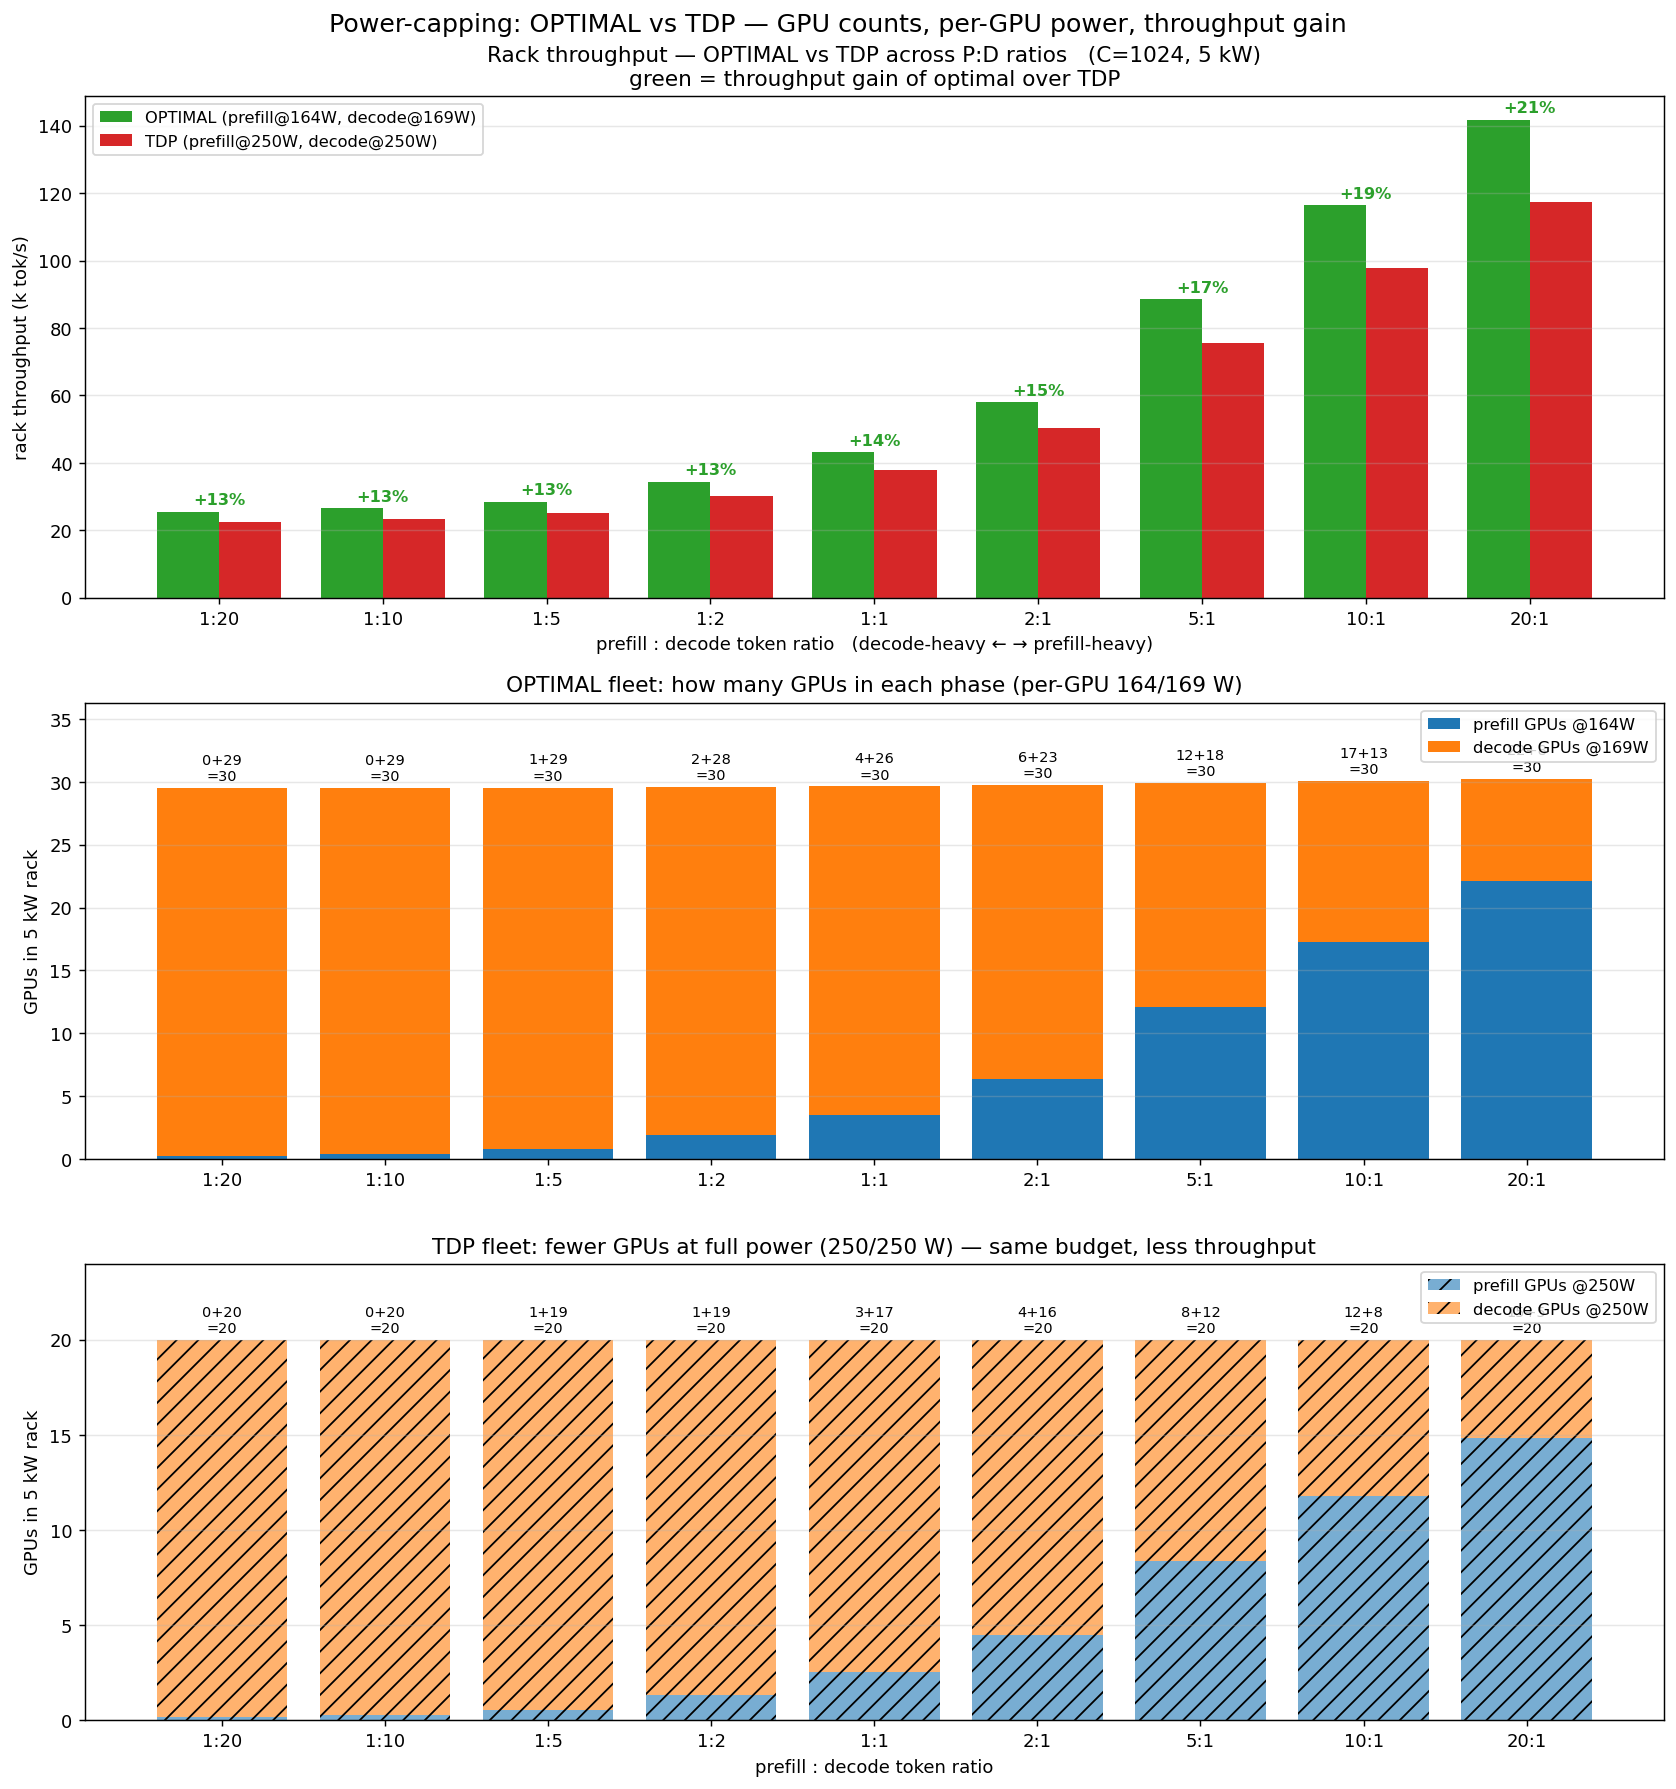
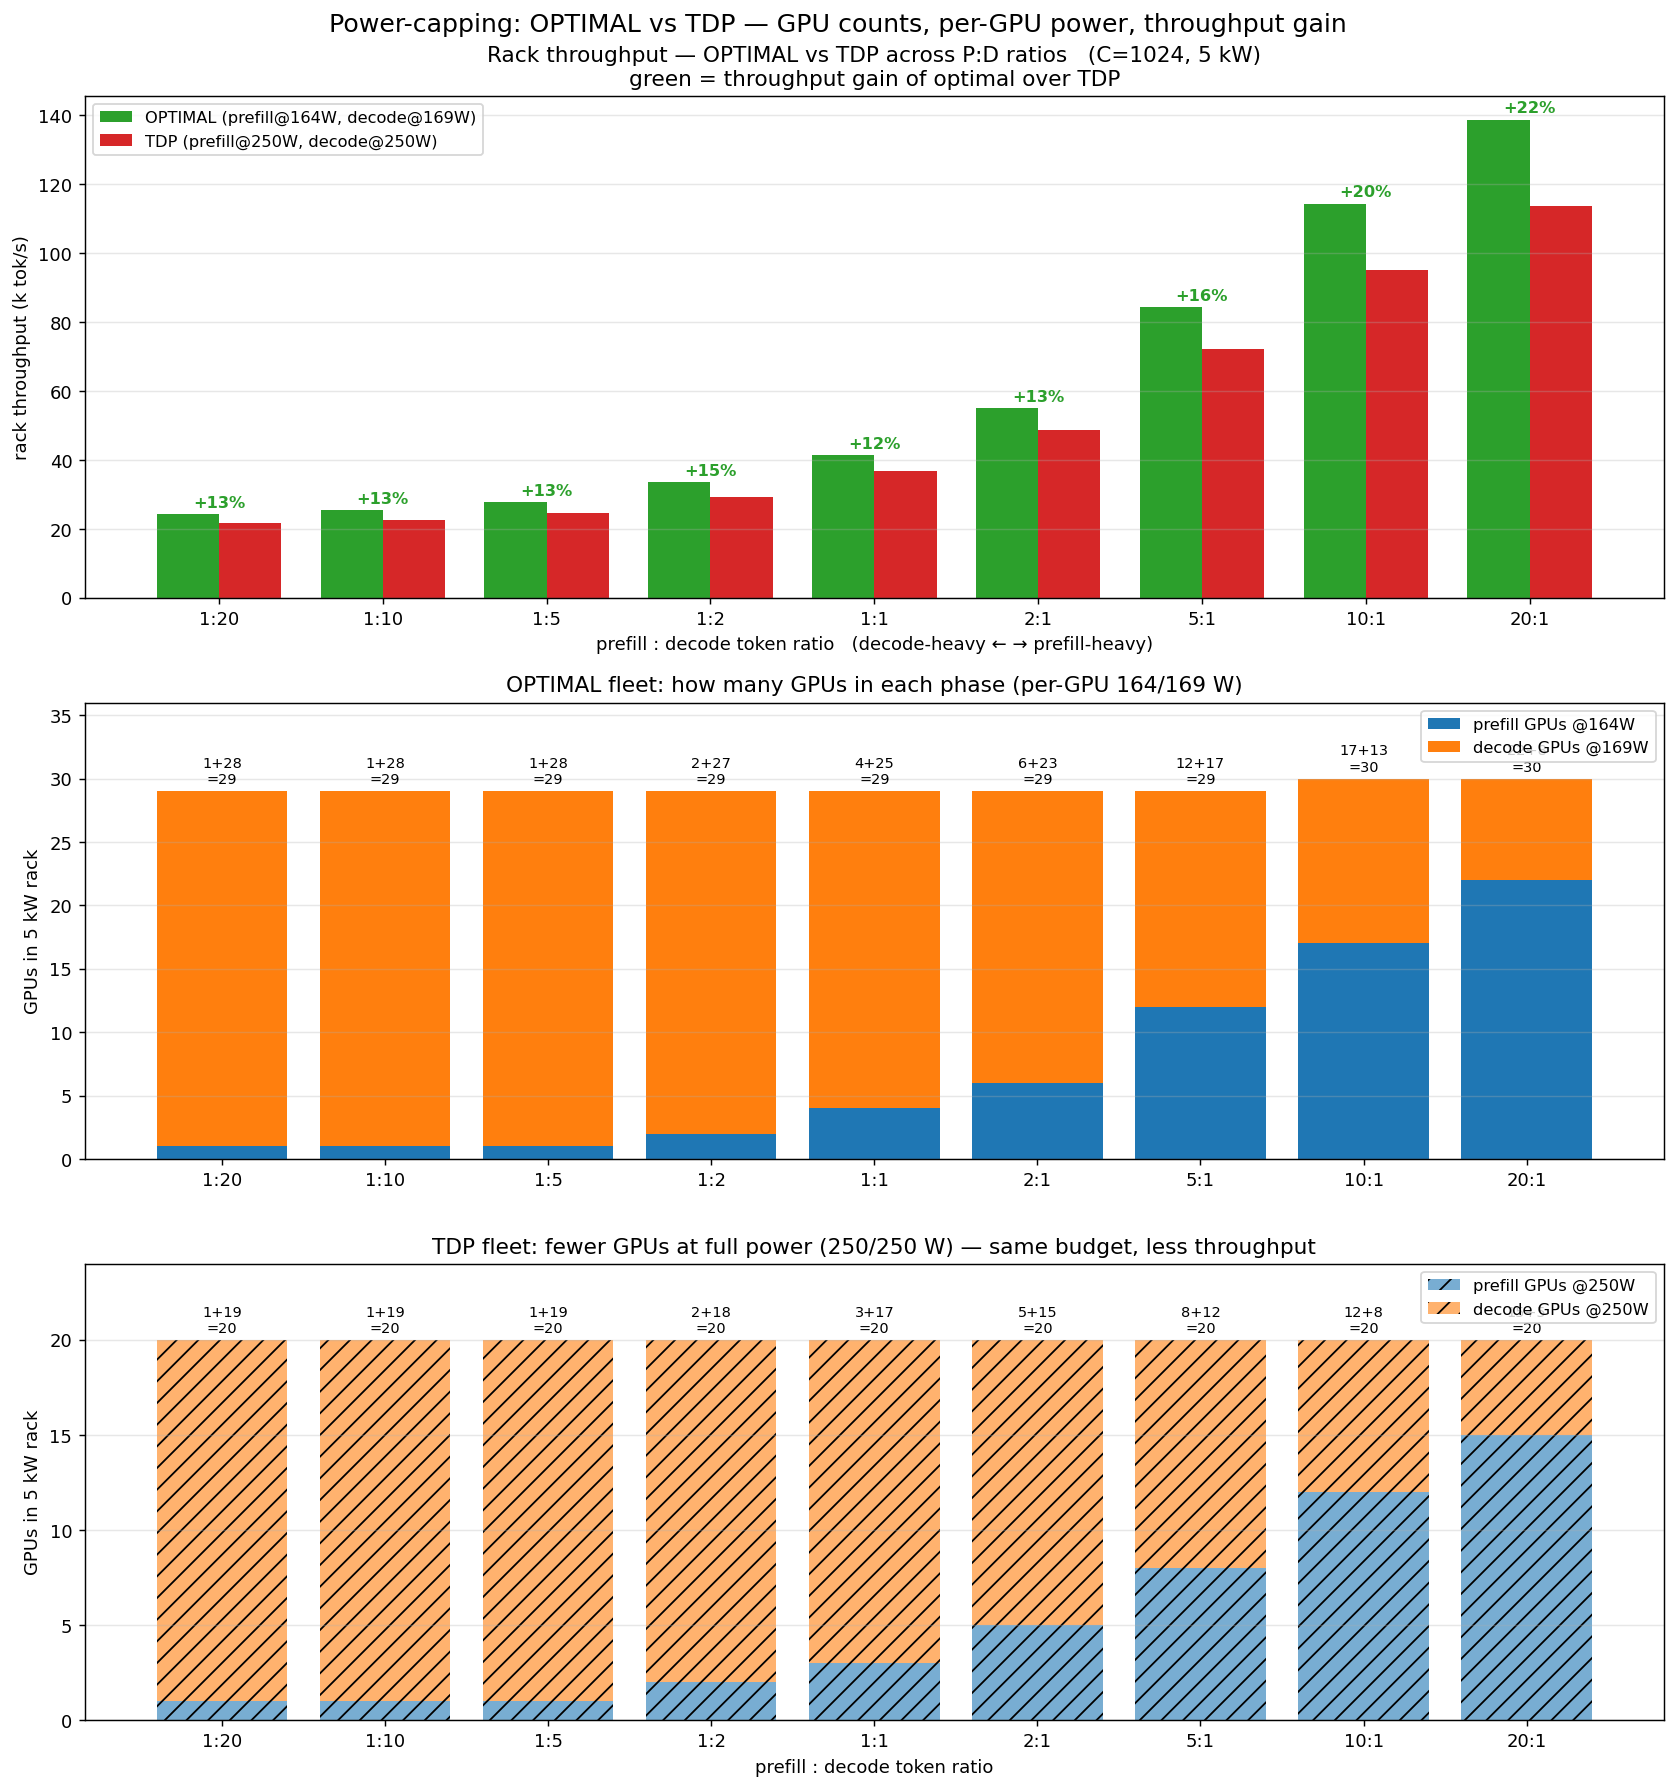
update power capping result

diff --git a/code/decode_sat.py b/code/decode_sat.py
@@ -1,0 +1,100 @@
+"""Decode SATURATION sweep — push batch well past B*=W/(C*kv) to expose the bandwidth ceiling.
+
+Why the earlier sweep missed it: at C=256 the half-saturation batch is B*=76, but weights+KV
+exhaust the 32 GB V100 right around b~76 too -> you OOM AT the knee, never past it, so throughput
+still looks linear in batch. Fix: use LONGER context so B* shrinks (B*∝1/C) and a modest,
+memory-feasible batch already exceeds it. C=1024 -> B*=19 (reach ~2x); C=2048 -> B*=9.5 (reach ~2.5x).
+
+Per point we log T, the per-sequence rate T/B (constant => still linear/unsaturated; falling =>
+saturating), and the IMPLIED effective bandwidth beta_eff = T*(W+B*C*kv)/B. If the roofline model
+holds, beta_eff is ~constant across batch and equals the real achieved HBM bandwidth; then the true
+ceiling is T_max = beta_eff/(C*kv).
+
+  SUDO_PASS=... CUDA_VISIBLE_DEVICES=0 PYTHONPATH=code python3 code/decode_sat.py
+"""
+from __future__ import annotations
+import csv, os, subprocess, time
+import torch
+import pynvml
+import config as C
+C.WARMUP_S = 0.6; C.SETTLE_S = 0.1; C.MEASURE_S = 3.0
+from power_sampler import PowerSampler                       # noqa: E402
+from measure import load_model, run_decode_point, free        # noqa: E402
+
+os.environ["DECODE_KV_HEADROOM"] = "64"   # shrink KV reserve so high batch fits (32 GB / huge MHA KV)
+PW = os.environ.get("SUDO_PASS", "")
+LOCK_CLOCK = 1290                       # lock SM clock (decode is clock-insensitive; removes DVFS/thermal confound)
+KV = 393216.0                           # KV bytes/token
+W_BYTES = 7.642e9                       # weight bytes/step
+COOL_TARGET, COOL_HOT, COOL_MAX_S = 62.0, 74.0, 90.0
+# context -> batch grid (pushed to batch 256 / OOM); B* = W/(C*kv): C256->76, C128->152.
+# C=256 is the ORIGINAL measurement context (old sweep stopped at b=32 << B*=76 -> looked linear);
+# now push past B* to expose saturation. C=128 reaches batch 256 within 32 GB.
+GRID = {
+    256: [1, 2, 4, 8, 16, 32, 48, 64, 96, 128, 160, 192, 224, 256],
+    128: [1, 2, 4, 8, 16, 32, 64, 96, 128, 160, 192, 224, 256],
+}
+
+
+def sudo_nv(*a):
+    return subprocess.run(["sudo", "-S", "-p", "", "nvidia-smi", "-i", "0", *a],
+                          input=PW + "\n", text=True, capture_output=True)
+
+
+def cool(sampler):
+    t = sampler.samples[-1]["temp"] if sampler.samples else 0
+    if not t or t <= COOL_HOT:
+        return
+    t0 = time.perf_counter()
+    while time.perf_counter() - t0 < COOL_MAX_S:
+        tt = sampler.samples[-1]["temp"] if sampler.samples else 0
+        if tt and tt <= COOL_TARGET:
+            break
+        time.sleep(1.0)
+
+
+def main():
+    if not PW:
+        print("ERROR: set SUDO_PASS"); return
+    pynvml.nvmlInit()
+    torch.backends.cuda.matmul.allow_tf32 = True
+    tok, model = load_model(); vocab = model.config.vocab_size
+    sampler = PowerSampler(interval_s=C.SAMPLE_INTERVAL_S); sampler.start(); time.sleep(0.3)
+    sudo_nv("-lgc", str(LOCK_CLOCK))
+    print(f"loaded {C.MODEL_ID} | clock locked {LOCK_CLOCK} MHz\n", flush=True)
+
+    rows = []
+    try:
+        for ctx, batches in GRID.items():
+            bstar = W_BYTES / (ctx * KV)
+            print(f"===== context C={ctx}  (B*={bstar:.1f})  =====", flush=True)
+            print(f"  {'batch':>5}{'tok/s':>9}{'T/B':>7}{'beta_eff_GB/s':>14}{'%ceil':>7}{'power':>7}{'clk':>6}{'util':>6}", flush=True)
+            for b in batches:
+                free(); cool(sampler)
+                try:
+                    r = run_decode_point(model, sampler, b, ctx, vocab)
+                except torch.cuda.OutOfMemoryError:
+                    print(f"  {b:>5}  OOM -> memory wall at C={ctx}", flush=True); free(); break
+                T = r["throughput_tok_s"]
+                beta_eff = T * (W_BYTES + b * ctx * KV) / b          # implied achieved bandwidth (B/s)
+                frac = T / (beta_eff / (ctx * KV))                  # T / T_max(beta_eff)  == b/(b+B*)
+                p = r.get("power_avg_w", 0); clk = r.get("sm_clk_avg", 0); util = r.get("util_gpu_avg", 0)
+                rows.append({"context": ctx, "batch": b, "throughput_tok_s": round(T, 1),
+                             "tok_per_seq_s": round(T / b, 2), "beta_eff_gbs": round(beta_eff / 1e9, 1),
+                             "frac_of_ceiling": round(frac, 3), "power_avg_w": round(p, 1),
+                             "sm_clk_avg": round(clk), "util_gpu_avg": round(util), "tok_per_joule": round(T / p, 2) if p else 0})
+                print(f"  {b:>5}{T:>9.0f}{T/b:>7.1f}{beta_eff/1e9:>14.1f}{100*frac:>6.0f}%{p:>7.0f}{clk:>6.0f}{util:>6.0f}", flush=True)
+            print(flush=True)
+    finally:
+        sudo_nv("-rgc")
+        print("[reset] clock unlocked", flush=True)
+        sampler.stop(); sampler.shutdown(); pynvml.nvmlShutdown()
+
+    path = os.path.join(C.RESULTS_DIR, "decode_saturation.csv")
+    with open(path, "w", newline="") as f:
+        w = csv.DictWriter(f, fieldnames=list(rows[0].keys())); w.writeheader(); [w.writerow(r) for r in rows]
+    print(f"wrote {path} ({len(rows)} rows)", flush=True)
+
+
+if __name__ == "__main__":
+    main()

diff --git a/code/decode_sat_plot.py b/code/decode_sat_plot.py
@@ -1,0 +1,83 @@
+"""Diagnostic plot for the decode saturation sweeps (high-batch C=256/128 + long-context C=512/1024/2048).
+
+Reads results/decode_saturation.csv and results/decode_saturation_long.csv. Four panels:
+  (1) T vs batch (log-log)        — filled = clock held >=1200 MHz (clean), hollow = clock collapsed
+  (2) per-seq rate T/B vs batch   — constant ~20 in the clean region (LINEAR, unsaturated)
+  (3) sm clock vs batch           — the smoking gun: clock collapses at high batch despite -lgc lock
+  (4) achieved bandwidth beta_eff — rises to ~190 GB/s (24% of peak) then FALLS (clock collapse, not a BW plateau)
+"""
+from __future__ import annotations
+import csv, os
+import numpy as np
+import matplotlib
+matplotlib.use("Agg")
+import matplotlib.pyplot as plt
+
+ROOT = os.path.dirname(os.path.dirname(os.path.abspath(__file__)))
+KV, W = 393216.0, 7.642e9
+BETA_PEAK = 782.0
+
+rows = []
+for fn in ("decode_saturation.csv", "decode_saturation_long.csv"):
+    p = os.path.join(ROOT, "results", fn)
+    if os.path.exists(p):
+        rows += list(csv.DictReader(open(p)))
+ctxs = sorted({int(r["context"]) for r in rows})
+cc = {128: "#9467bd", 256: "#1f77b4", 512: "#2ca02c", 1024: "#ff7f0e", 2048: "#d62728"}
+
+fig, ax = plt.subplots(2, 2, figsize=(15, 11))
+for C in ctxs:
+    d = sorted([r for r in rows if int(r["context"]) == C], key=lambda r: float(r["batch"]))
+    B = np.array([float(r["batch"]) for r in d]); T = np.array([float(r["throughput_tok_s"]) for r in d])
+    clk = np.array([float(r["sm_clk_avg"]) for r in d]); beta = np.array([float(r["beta_eff_gbs"]) for r in d])
+    held = clk >= 1200
+    col = cc[C]; bstar = W / (C * KV)
+
+    a = ax[0, 0]
+    a.plot(B, T, "-", color=col, lw=1, alpha=.5)
+    a.scatter(B[held], T[held], color=col, s=42, edgecolor="k", lw=.5, zorder=5, label=f"C={C} (clk≥1200)")
+    a.scatter(B[~held], T[~held], facecolors="none", edgecolors=col, s=42, zorder=5)
+    a.axvline(bstar, color=col, ls=":", lw=1, alpha=.5)
+
+    ax[0, 1].plot(B, T / B, "o-", color=col, ms=4, lw=1.2, label=f"C={C}")
+    ax[1, 0].plot(B, clk, "o-", color=col, ms=4, lw=1.2, label=f"C={C}")
+    ax[1, 1].plot(B, beta, "o-", color=col, ms=4, lw=1.2, label=f"C={C}")
+
+a = ax[0, 0]
+a.set_xscale("log", base=2); a.set_yscale("log", base=2)
+a.set_xlabel("batch"); a.set_ylabel("throughput (tok/s)")
+a.set_title("Throughput vs batch — filled=clock held, hollow=clock collapsed\n(dotted = B*; clean region is LINEAR, peak coincides with clock collapse)")
+a.legend(fontsize=8); a.grid(alpha=.3, which="both")
+
+a = ax[0, 1]
+a.set_xscale("log", base=2); a.set_xlabel("batch"); a.set_ylabel("per-seq rate T/B (tok/s/seq)")
+a.axhline(20.5, color="gray", ls="--", alpha=.6, label="~20.5 (full-clock linear)")
+a.set_title("Per-sequence rate: flat ~20 while clock held (linear/unsaturated),\nfalls only once the clock collapses"); a.legend(fontsize=8); a.grid(alpha=.3)
+
+a = ax[1, 0]
+a.set_xscale("log", base=2); a.set_xlabel("batch"); a.set_ylabel("avg SM clock (MHz)")
+a.axhline(1290, color="gray", ls="--", alpha=.6, label="locked 1290 MHz")
+a.set_title("SM clock COLLAPSES at high batch (despite -lgc 1290 lock)\n— this, not bandwidth, caps measured decode throughput")
+a.legend(fontsize=8); a.grid(alpha=.3)
+
+a = ax[1, 1]
+a.set_xscale("log", base=2); a.set_xlabel("batch"); a.set_ylabel("achieved bandwidth β_eff (GB/s)")
+a.axhline(BETA_PEAK, color="gray", ls="--", alpha=.6, label=f"peak HBM {BETA_PEAK:.0f}")
+a.axhline(0.8 * BETA_PEAK, color="gray", ls=":", alpha=.5, label="80% peak (626)")
+a.set_title("Achieved bandwidth peaks ~190 GB/s (24% of peak) then FALLS\n— never reaches the roofline; clock collapse pulls it back down")
+a.legend(fontsize=8); a.grid(alpha=.3)
+
+fig.suptitle("Decode high-batch sweep — throughput is capped by CLOCK COLLAPSE + memory capacity, not HBM bandwidth (V100, Phi-3, eager)", fontsize=12)
+fig.tight_layout()
+out = os.path.join(ROOT, "rack_power_capping", "fig_decode_saturation.png")
+fig.savefig(out, dpi=130, bbox_inches="tight")
+
+print("peak throughput & achieved BW per context (full-clock points only):")
+for C in ctxs:
+    d = [r for r in rows if int(r["context"]) == C]
+    clean = [r for r in d if float(r["sm_clk_avg"]) >= 1200]
+    bmax = max(clean, key=lambda r: float(r["beta_eff_gbs"]))
+    pk = max(d, key=lambda r: float(r["throughput_tok_s"]))
+    print(f"  C={C:>4}: peak T={float(pk['throughput_tok_s']):>5.0f}@b{pk['batch']:>3}(clk{pk['sm_clk_avg']}) | "
+          f"max clean β_eff={float(bmax['beta_eff_gbs']):>5.0f} GB/s @b{bmax['batch']} = {100*float(bmax['beta_eff_gbs'])/BETA_PEAK:.0f}% peak")
+print("wrote", out)

diff --git a/rack_power_capping/solve.py b/rack_power_capping/solve.py
@@ -28,6 +28,10 @@ the ratio only sets the GPU-count split. Both sweet-spots sit ~165-170 W, far be
 250 W TDP -> under a power cap you deploy MORE GPUs at lower power. We compare the optimum
 against the TDP baseline (every GPU at 250 W nameplate) and a uniform-170 W cap.
 
+CONSTRAINT: GPU counts are INTEGER with >=1 GPU in EACH phase (disaggregated serving needs at
+least one prefill worker and one decode worker). At extreme ratios this floor binds (e.g. a
+decode-heavy 1:20 still spends one whole GPU on prefill, over-provisioning it). See solve().
+
   beta=6.26e11 B/s effective HBM (0.8x782 GB/s peak), W_bytes=7.642e9, kv=393216 B/token.
 """
 from __future__ import annotations
@@ -64,15 +68,35 @@ def best_eff_prefill():
 
 
 def solve(P, D, p_p, p_d, C=CTX, W=W_RACK):
-    """Token ratio P:D, per-GPU powers (p_p prefill, p_d decode) -> full-budget allocation."""
+    """Token ratio P:D, per-GPU powers -> INTEGER allocation with >=1 GPU in EACH phase.
+
+    Disaggregated serving needs at least one prefill worker AND one decode worker, and GPUs are
+    whole units -> Np>=1, Nd>=1, integer (the continuous closed form gives fractions like 0.2 at
+    extreme ratios, which is non-physical). The balanced workload is served at request rate
+    lam = min(prefill_capacity/P, decode_capacity/D); total useful throughput = lam*(P+D).
+    We sweep integer Np>=1 and fill the remaining budget with Nd>=1 decode GPUs, taking the best.
+    Returns None if the budget cannot fit one GPU of each phase."""
     tp, td = Tpre(p_p), Tdec(p_d, C)
-    eta_p, eta_d = tp / p_p, td / p_d
+    best = None
+    npre_max = int((W - p_d) // p_p)             # leave budget for >=1 decode GPU
+    for npre in range(1, npre_max + 1):
+        ndec = int((W - npre * p_p) // p_d)      # fill the rest with decode
+        if ndec < 1:
+            break                                # budget exhausted (ndec falls as npre rises)
+        lam = min(npre * tp / P, ndec * td / D)  # bottleneck request rate
+        tot = lam * (P + D)                      # useful tok/s (balanced; excess capacity wasted)
+        if best is None or tot > best["tot"]:
+            best = dict(p_p=p_p, p_d=p_d, tp=tp, td=td, tot=tot, lam=lam, Np=npre, Nd=ndec,
+                        Wp=npre * p_p, Wd=ndec * p_d, pre_cap=npre * tp, dec_cap=ndec * td)
+    return best
+
+
+def solve_cont(P, D, p_p, p_d, C=CTX, W=W_RACK):
+    """Continuous relaxation (fractional GPUs, perfectly balanced) -> upper bound on solve()."""
+    tp, td = Tpre(p_p), Tdec(p_d, C)
     fp, fd = P / (P + D), D / (P + D)
-    tot = W / (fp / eta_p + fd / eta_d)          # max total tok/s at full budget
-    A_pre, B_dec = fp * tot, fd * tot            # phase throughputs (tok/s)
-    Np, Nd = A_pre / tp, B_dec / td              # GPU counts (continuous)
-    return dict(p_p=p_p, p_d=p_d, tp=tp, td=td, eta_p=eta_p, eta_d=eta_d,
-                tot=tot, Np=Np, Nd=Nd, Wp=Np * p_p, Wd=Nd * p_d)
+    tot = W / (fp / (tp / p_p) + fd / (td / p_d))
+    return dict(tot=tot, Np=fp * tot / tp, Nd=fd * tot / td)
 
 
 # policies: name -> (prefill per-GPU W, decode per-GPU W)
@@ -91,20 +115,21 @@ def main():
           f"decode {P_DEC_OPT:.0f} W (C-independent)")
     print(f"decode bandwidth ceiling T_max(C={CTX}) = {Tmax(CTX):.0f} tok/s, "
           f"@169W -> {Tdec(P_DEC_OPT, CTX):.0f} tok/s ({Tdec(P_DEC_OPT, CTX)/P_DEC_OPT:.1f} tok/J)")
-    print(f"\nrack {W_RACK:.0f} W, context C={CTX}   (OPTIMAL pre@{pP:.0f}/dec@{P_DEC_OPT:.0f}W  vs  TDP 250/250W)")
-    print(f"{'P:D':>7} | {'OPT ktok/s':>10}{'N_pre':>7}{'N_dec':>7} | {'TDP ktok/s':>10}{'N_pre':>7}{'N_dec':>7} | {'gain':>7}")
+    print(f"\nrack {W_RACK:.0f} W, context C={CTX}   integer GPUs, >=1 per phase   (OPTIMAL pre@{pP:.0f}/dec@{P_DEC_OPT:.0f}W  vs  TDP 250/250W)")
+    print(f"{'P:D':>7} | {'OPT ktok/s':>10}{'N_pre':>6}{'N_dec':>6} | {'TDP ktok/s':>10}{'N_pre':>6}{'N_dec':>6} | {'gain':>7}  note")
     rows = []
     for (P, D) in RATIOS:
         o = solve(P, D, *pol["OPTIMAL"]); t = solve(P, D, *pol["TDP"]); u = solve(P, D, *pol["Uniform170"])
         gain = 100 * (o["tot"] / t["tot"] - 1)
-        print(f"{P}:{D:<5} | {o['tot']/1000:>10.1f}{o['Np']:>7.1f}{o['Nd']:>7.1f} | "
-              f"{t['tot']/1000:>10.1f}{t['Np']:>7.1f}{t['Nd']:>7.1f} | {gain:>6.1f}%")
+        bind = "Np=1 floor binds" if o["Np"] == 1 and P < D else ("Nd=1 floor binds" if o["Nd"] == 1 and D < P else "")
+        print(f"{P}:{D:<5} | {o['tot']/1000:>10.1f}{o['Np']:>6d}{o['Nd']:>6d} | "
+              f"{t['tot']/1000:>10.1f}{t['Np']:>6d}{t['Nd']:>6d} | {gain:>6.1f}%  {bind}")
         rows.append({"context_C": CTX, "P": P, "D": D,
-                     "opt_tok_s": round(o["tot"]), "opt_N_prefill": round(o["Np"], 2), "opt_N_decode": round(o["Nd"], 2),
+                     "opt_tok_s": round(o["tot"]), "opt_N_prefill": o["Np"], "opt_N_decode": o["Nd"],
                      "opt_p_prefill_w": round(pP), "opt_p_decode_w": round(P_DEC_OPT),
-                     "tdp_tok_s": round(t["tot"]), "tdp_N_prefill": round(t["Np"], 2), "tdp_N_decode": round(t["Nd"], 2),
+                     "tdp_tok_s": round(t["tot"]), "tdp_N_prefill": t["Np"], "tdp_N_decode": t["Nd"],
                      "uniform170_tok_s": round(u["tot"]),
-                     "gain_opt_vs_tdp_pct": round(gain, 1)})
+                     "gain_opt_vs_tdp_pct": round(gain, 1), "constraint_binds": bind})
 
     here = os.path.dirname(os.path.abspath(__file__))
     with open(os.path.join(here, "results.csv"), "w", newline="") as f:

diff --git a/code/measure.py b/code/measure.py
@@ -106,7 +106,7 @@ def run_decode_point(model, sampler, batch, ctx_len, vocab):
     kv, nxt = _seed_kv(model, batch, ctx_len, vocab)
     torch.cuda.synchronize()
     steps = 0
-    max_cache = ctx_len + 256
+    max_cache = ctx_len + int(os.environ.get("DECODE_KV_HEADROOM", "256"))
     cur_len = ctx_len
     t0 = sampler.now()
     t_end = t0 + C.MEASURE_S